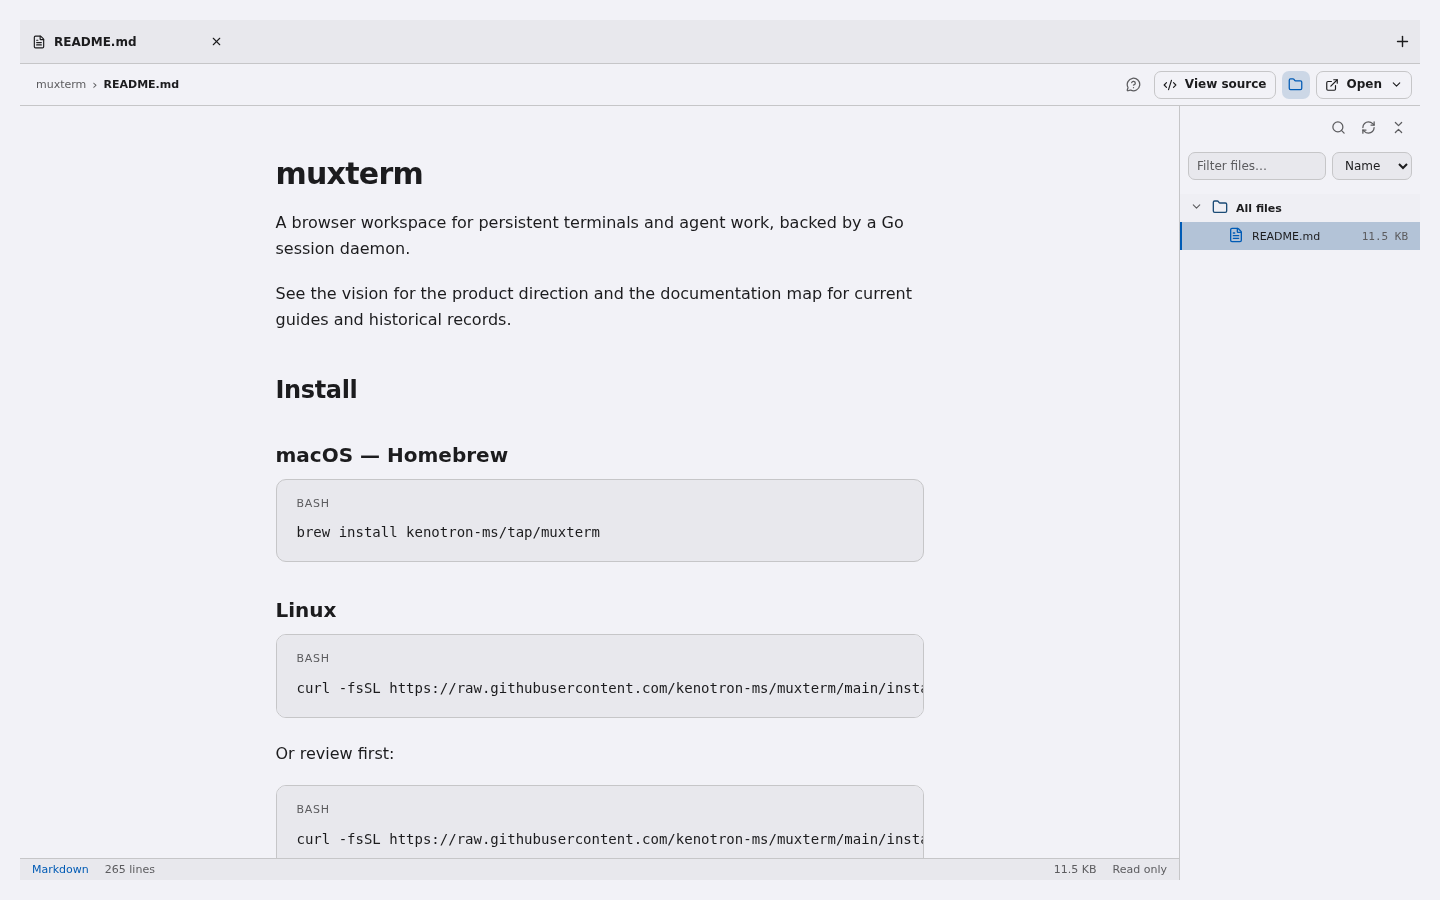
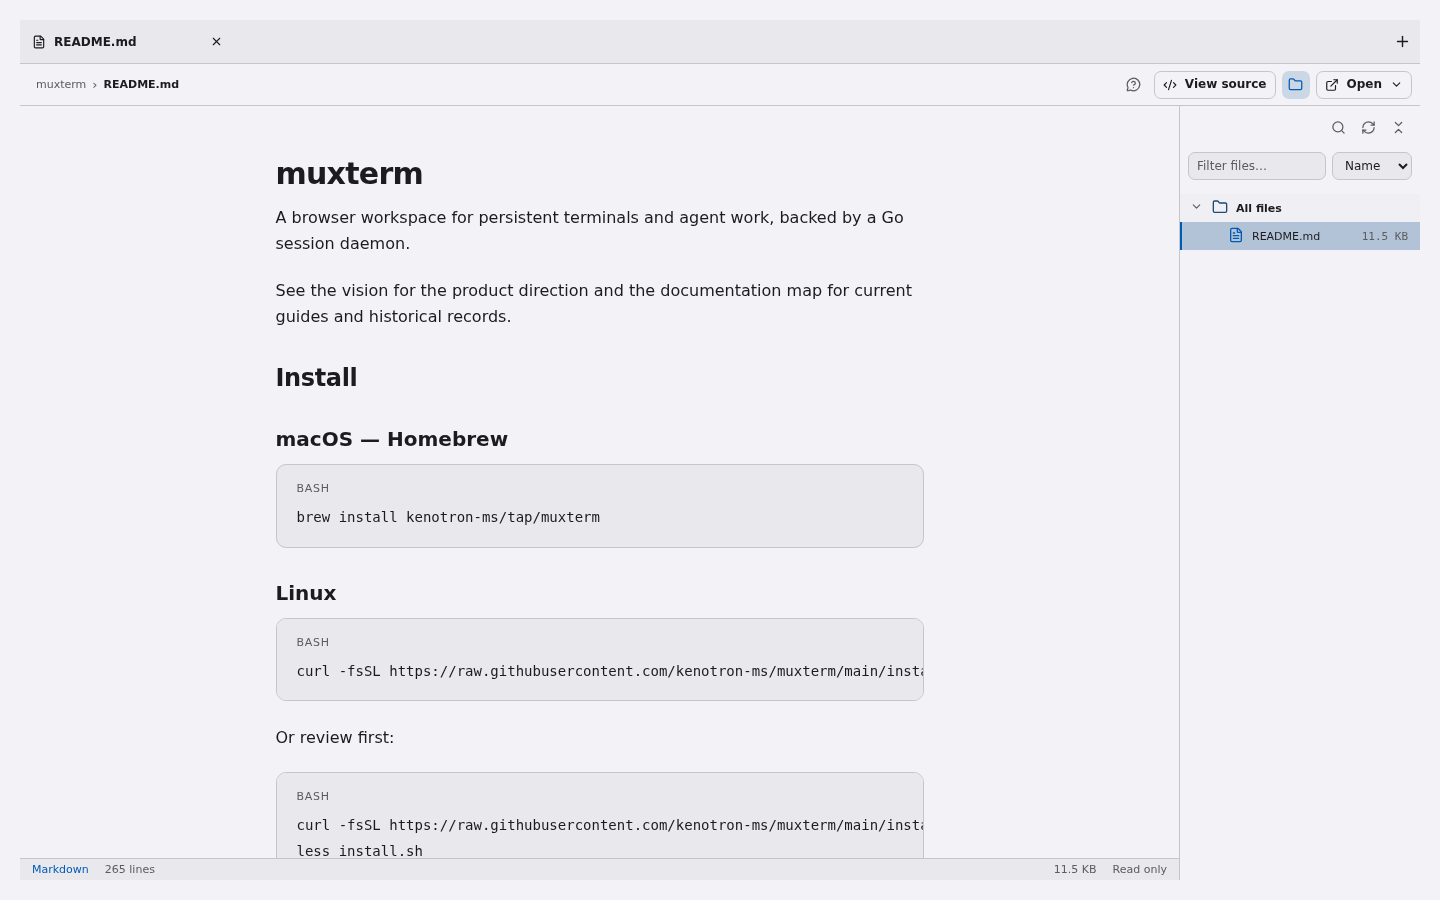
Use shared spacing tokens in Markdown reader

diff --git a/web/src/components/mux-sdk-utility.ts b/web/src/components/mux-sdk-utility.ts
@@ -1165,25 +1165,25 @@ export class MuxSDKUtility extends LitElement {
     mux-sdk-utility .document-view { box-sizing:border-box; width:100%; max-width:var(--ui-utility-document-width); margin:0 auto; padding:clamp(var(--ui-space-7),4vw,var(--ui-space-11)) clamp(var(--ui-space-7),5vw,var(--ui-space-12)) var(--ui-space-13); color:var(--ui-text); font:var(--ui-text-xl)/1.65 var(--ui-font-sans); overflow-wrap:break-word; }
     mux-sdk-utility .document-view > :first-child { margin-top:0; }
     mux-sdk-utility .document-view > :last-child { margin-bottom:0; }
-    mux-sdk-utility .document-view .md-p { margin:0 0 1.15em; }
-    mux-sdk-utility .document-view .md-h { margin:1.75em 0 .55em; color:var(--ui-text); font-weight:700; line-height:1.3; overflow-wrap:break-word; }
+    mux-sdk-utility .document-view .md-p { margin:0 0 var(--ui-space-7); }
+    mux-sdk-utility .document-view .md-h { margin:var(--ui-space-9) 0 var(--ui-space-5); color:var(--ui-text); font-weight:700; line-height:1.3; overflow-wrap:break-word; }
     mux-sdk-utility .document-view h1.md-h { margin-top:0; font-size:var(--ui-text-4xl); letter-spacing:-.025em; white-space:normal; overflow:visible; text-overflow:clip; }
     mux-sdk-utility .document-view h2.md-h { font-size:var(--ui-text-3xl); letter-spacing:-.015em; }
     mux-sdk-utility .document-view h3.md-h { font-size:var(--ui-text-2xl); }
     mux-sdk-utility .document-view h4.md-h { font-size:var(--ui-text-xl); }
-    mux-sdk-utility .document-view h5.md-h, mux-sdk-utility .document-view h6.md-h { font-size:var(--ui-text-lg); }
+    mux-sdk-utility .document-view h5.md-h, mux-sdk-utility .document-view h6.md-h { font-size:var(--ui-text-xl); }
     mux-sdk-utility .document-view strong { font-weight:700; }
     mux-sdk-utility .document-view .md-link { color:var(--ui-accent); text-decoration:underline; text-underline-offset:3px; }
     mux-sdk-utility .document-view .md-link:hover { color:var(--ui-text); }
-    mux-sdk-utility .document-view .md-code { padding:calc(var(--ui-space-1) / 2) var(--ui-space-1); border:1px solid var(--ui-border); border-radius:var(--ui-radius-sm); background:var(--ui-surface-raised); font:.9em/1.45 var(--ui-font-mono); }
-    mux-sdk-utility .document-view .md-pre { box-sizing:border-box; max-width:100%; margin:0 0 1.4em; padding:var(--ui-space-6) var(--ui-space-7); overflow:auto; border:1px solid var(--ui-border); border-radius:var(--ui-radius-lg); background:var(--ui-surface-raised); }
+    mux-sdk-utility .document-view .md-code { padding:calc(var(--ui-space-1) / 2) var(--ui-space-1); border:1px solid var(--ui-border); border-radius:var(--ui-radius-sm); background:var(--ui-surface-raised); font:var(--ui-text-lg)/1.45 var(--ui-font-mono); }
+    mux-sdk-utility .document-view .md-pre { box-sizing:border-box; max-width:100%; margin:0 0 var(--ui-space-8); padding:var(--ui-space-6) var(--ui-space-7); overflow:auto; border:1px solid var(--ui-border); border-radius:var(--ui-radius-lg); background:var(--ui-surface-raised); }
     mux-sdk-utility .document-view .md-pre[data-lang]:not([data-lang=""])::before { content:attr(data-lang); display:block; margin:0 0 var(--ui-space-4); color:var(--ui-text-muted); font:var(--ui-text-xs)/1.4 var(--ui-font-sans); text-transform:uppercase; letter-spacing:.07em; }
     mux-sdk-utility .document-view .md-pre code { font:var(--ui-text-lg)/1.6 var(--ui-font-mono); white-space:pre; }
-    mux-sdk-utility .document-view .md-ul, mux-sdk-utility .document-view .md-ol { margin:0 0 1.2em; padding-left:1.8em; }
-    mux-sdk-utility .document-view .md-li { padding-left:.2em; margin:.3em 0; }
+    mux-sdk-utility .document-view .md-ul, mux-sdk-utility .document-view .md-ol { margin:0 0 var(--ui-space-7); padding-left:var(--ui-space-9); }
+    mux-sdk-utility .document-view .md-li { padding-left:var(--ui-space-1); margin:var(--ui-space-2) 0; }
     mux-sdk-utility .document-view .md-li .md-p { margin:0; }
     mux-sdk-utility .document-view .md-li > .md-ul, mux-sdk-utility .document-view .md-li > .md-ol { margin:var(--ui-space-1) 0 var(--ui-space-2); }
-    mux-sdk-utility .document-view .md-quote { margin:0 0 1.3em; padding:.15em 0 .15em 1.15em; border-left:3px solid var(--ui-accent); color:var(--ui-text-muted); }
+    mux-sdk-utility .document-view .md-quote { margin:0 0 var(--ui-space-7); padding:var(--ui-space-1) 0 var(--ui-space-1) var(--ui-space-6); border-left:3px solid var(--ui-accent); color:var(--ui-text-muted); }
     mux-sdk-utility .document-view .md-quote > :last-child { margin-bottom:0; }
     mux-sdk-utility .document-view .md-hr { margin:var(--ui-space-4) 0; border:0; border-top:1px solid var(--ui-border); }
     mux-sdk-utility .document-view .md-tablewrap { max-width:100%; overflow-x:auto; margin:0 0 var(--ui-space-4); border:1px solid var(--ui-border); border-radius:var(--ui-radius-lg); }
